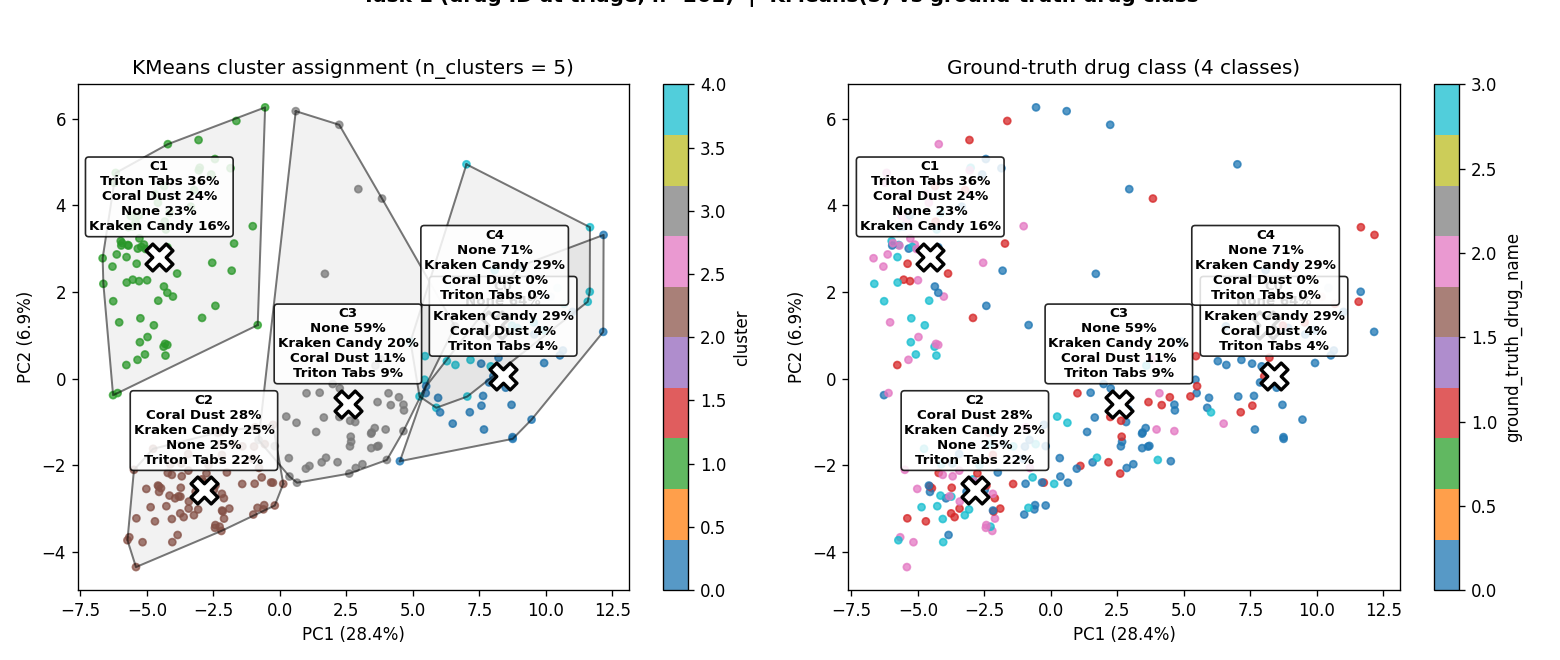
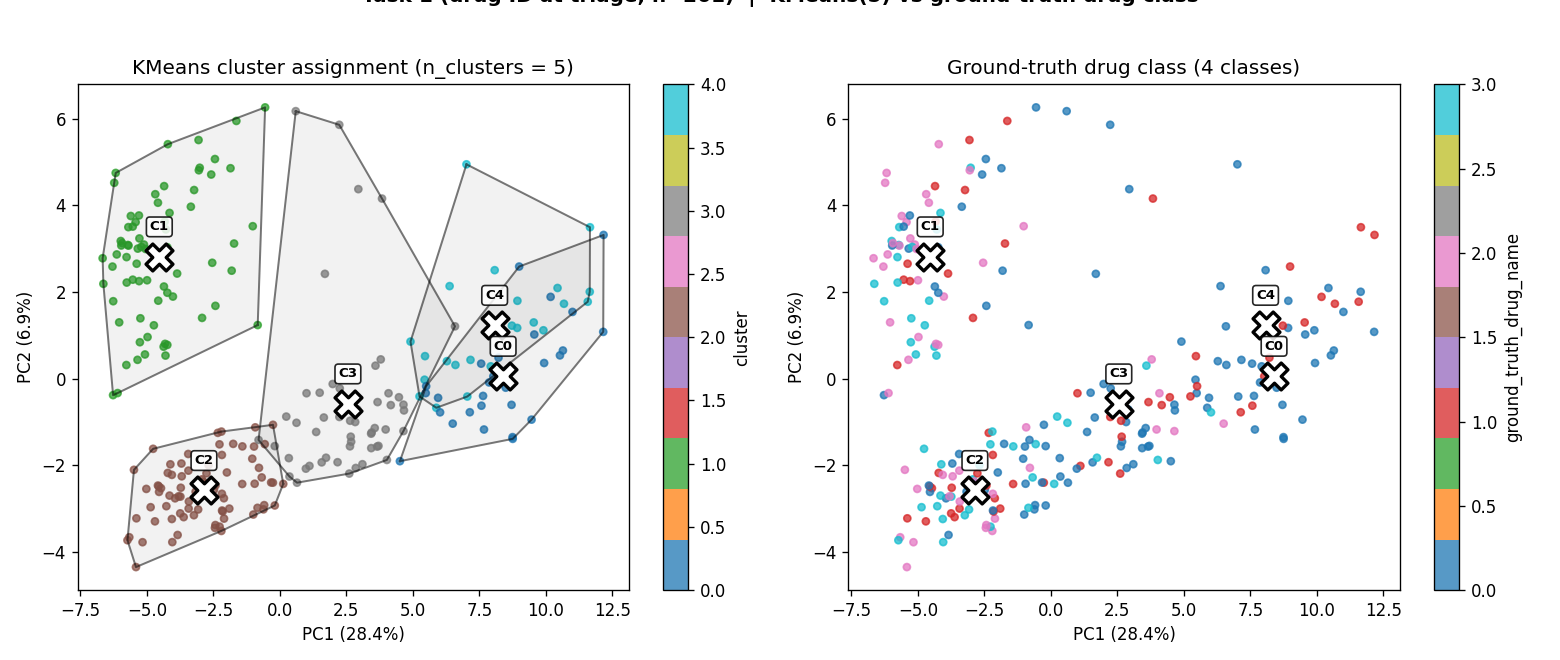
fix(unsupervised): centroid-only annotation in task1 unsupervised mode
In unsupervised_mode, the centroid annotation on both panels of
cluster_pca_task1.png now shows only the cluster id (C0..C4) -
the class-fraction labels for the 4 drug classes are dropped
because the clusters themselves are the outcome categories in
this mode (no supervised class is being displayed).

Supervised mode (task2 disposition clustering) unchanged - it
still annotates centroids with the full class-fraction
distribution.

diff --git a/src/unsupervised/cluster.py b/src/unsupervised/cluster.py
@@ -251,10 +251,13 @@ def cluster_one(
     plt.colorbar(sc0, ax=axes[0], label="cluster")
 
     # Centroid markers + convex-hull boundary per cluster on panel 0.
-    # Each centroid is annotated with its TOP-3 candidate ground-
-    # truth labels and their cluster-internal fractions, so the
-    # empirical class mix is visible (no spurious unique-assignment).
+    # In unsupervised_mode the centroid carries only its cluster id
+    # (the clusters ARE the outcomes — no supervised class to display).
+    # In supervised mode the centroid is annotated with its full
+    # candidate-label distribution.
     def _fmt_top3(k: int) -> str:
+        if unsupervised_mode:
+            return f"C{k}"
         lines = [f"C{k}"]
         for cls, frac in cluster_top3[k]:
             lines.append(f"{cls} {frac * 100:.0f}%")
